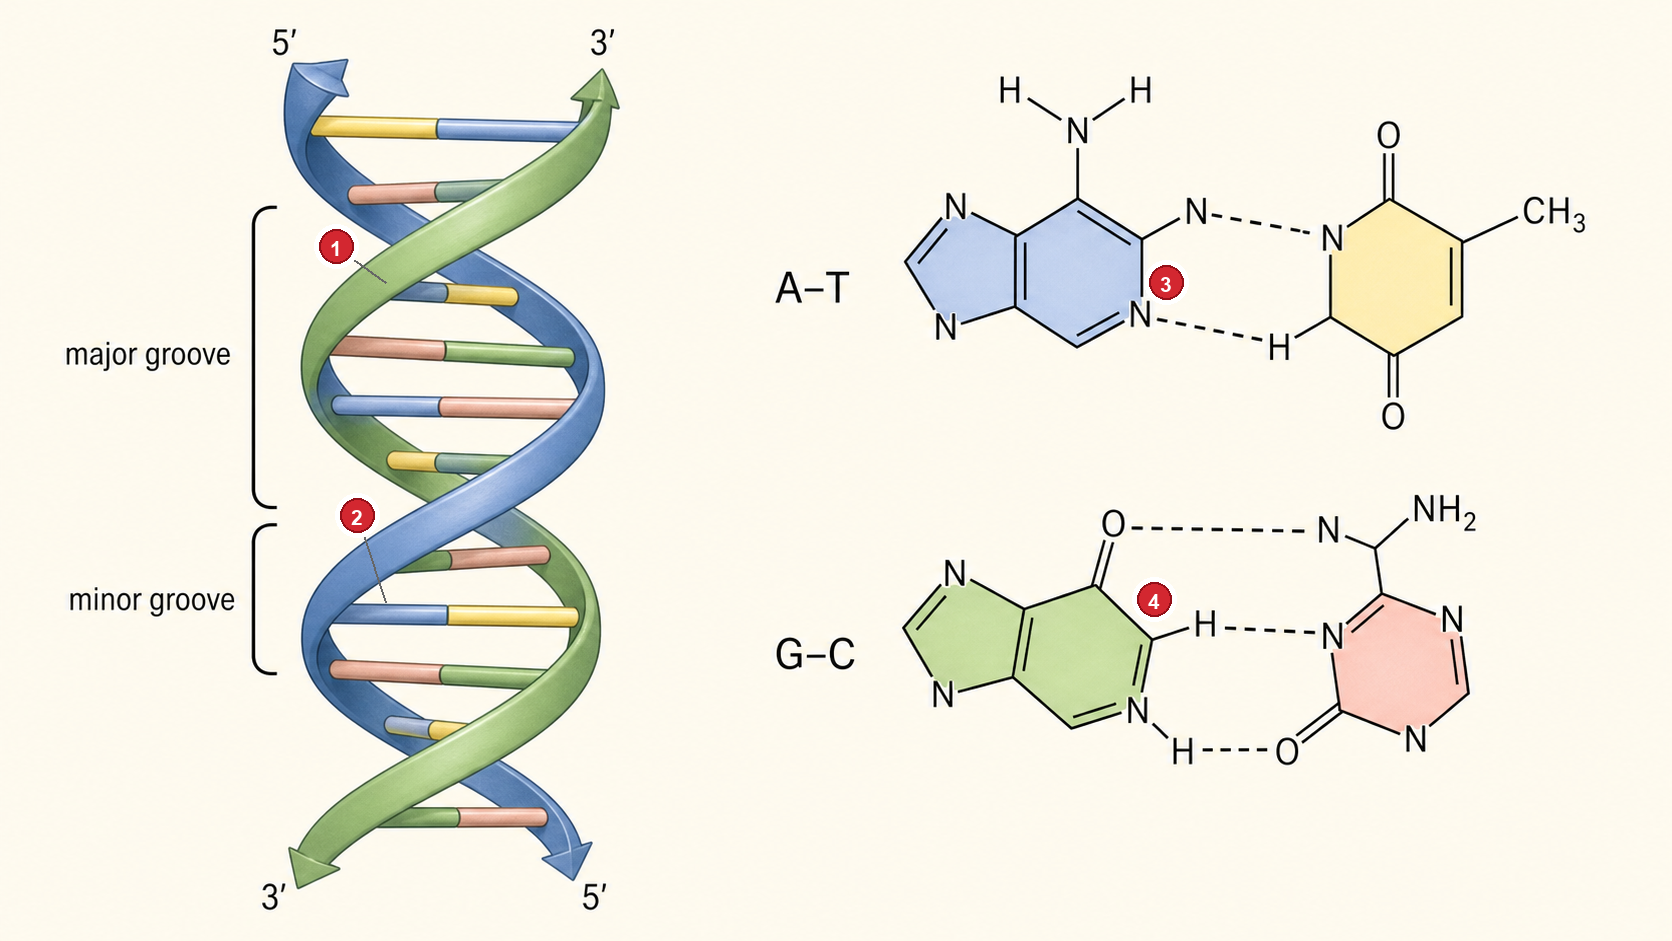
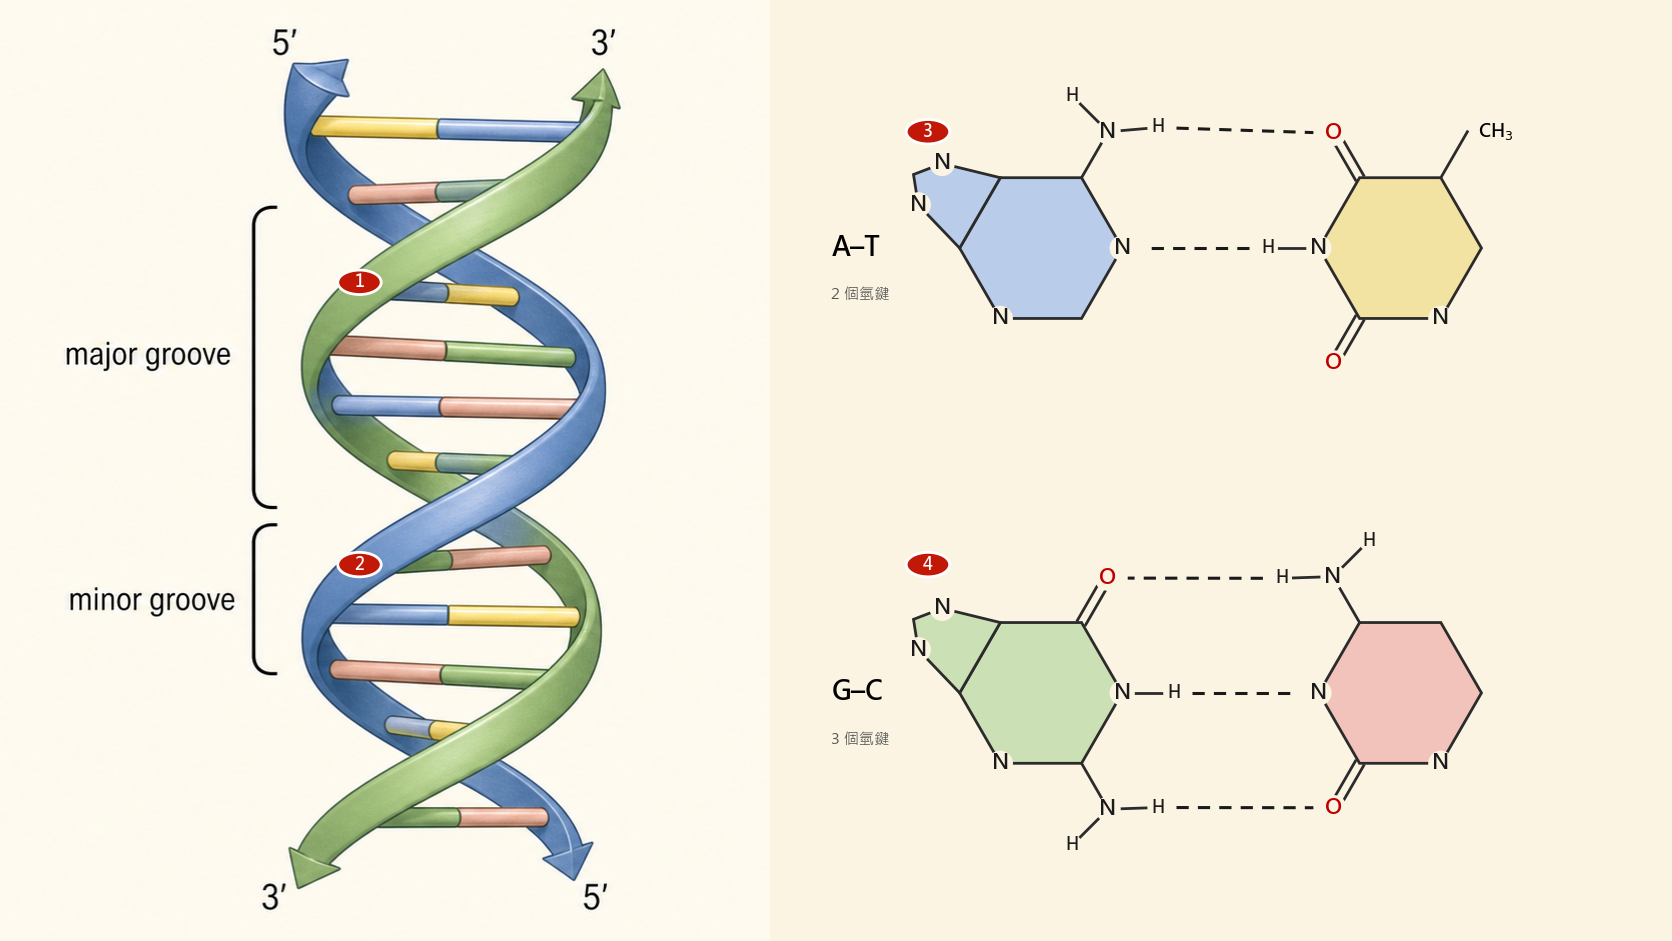
重繪 W11 DNA 鹼基配對圖：修正 A-T 氫鍵化學錯誤
- 原 AI 圖 A-T 上方氫鍵畫成 N…N（未經 H）、羰基 O 未參與
- 左半雙螺旋插畫（反平行/大小溝正確）保留原圖；右半改由
  tools/draw_w11_base_pairs.py 程式繪製，每條氫鍵由
  (供體H, 受體O/N) 座標對產生並斷言 A-T 2 條、G-C 3 條
- 正確配對：A-T＝N6-H…O4、N3-H…N1；G-C＝N4-H…O6、
  N1-H…N3、N2-H…O2
- 標號語意不變（①大溝②小溝③A-T④G-C），題庫 W11-E01 與
  w18 標圖牆解答無需修改
- build_redrawn_assets*.py 停用此圖條目；img 加 ?v=2

diff --git a/site/vi-a2/lessons/w11.html b/site/vi-a2/lessons/w11.html
@@ -29,7 +29,7 @@ const WEEK={
    '<span class=kw>鹼基配對</span>有固定規則。',
    'A配T，有兩個氫鍵。',
    'G配C，有三個氫鍵。'
-  ],img:'../../assets/figures/w11_dna_helix.jpg',imgCap:'DNA雙螺旋構造 ／ Cấu trúc chuỗi xoắn kép DNA'},
+  ],img:'../../assets/figures/w11_dna_helix.jpg?v=2',imgCap:'DNA雙螺旋構造 ／ Cấu trúc chuỗi xoắn kép DNA'},
   {h:'互補股與DNA vs RNA',p:[
    '兩股DNA<span class=kw>反平行</span>。',
    '方向相反，頭尾相對。',

diff --git a/site/vi-a2/w11.html b/site/vi-a2/w11.html
@@ -206,7 +206,7 @@
 <h2>DNA 雙螺旋</h2>
 <p class="vi">Chuỗi xoắn kép</p>
 </div>
-<img class="r-stretch" src="../assets/figures/w11_dna_helix.jpg" alt="DNA雙螺旋構造 / Cấu trúc chuỗi xoắn kép DNA">
+<img class="r-stretch" src="../assets/figures/w11_dna_helix.jpg?v=2" alt="DNA雙螺旋構造 / Cấu trúc chuỗi xoắn kép DNA">
 <p style="color:var(--accent);font-weight:700">A 配 T(2 鍵),G 配 C(3 鍵)。</p>
 <p class="vi">A-T (2 liên kết), G-C (3 liên kết).</p>
 <aside class="notes">

diff --git a/tools/draw_w11_base_pairs.py b/tools/draw_w11_base_pairs.py
@@ -1,0 +1,208 @@
+#!/usr/bin/env python3
+# -*- coding: utf-8 -*-
+"""
+draw_w11_base_pairs.py — 重繪 W11 DNA 圖的右半（A–T / G–C 鹼基配對）。
+
+2026-10-16：原 AI 圖的 A–T 配對化學錯誤——上方氫鍵畫成 N…N（未經 H），
+且羰基 O 未參與。左半的雙螺旋插畫（反平行 5'/3'、大小溝）正確，保留原圖；
+右半改為程式繪製，每條氫鍵由 (供體H, 受體O/N) 座標對產生，結構上不可能畫錯。
+
+正確配對：
+  A–T 2 條：A 的 N6–H … O4=C(T)；T 的 N3–H … N1(A)
+  G–C 3 條：C 的 N4–H … O6=C(G)；G 的 N1–H … N3(C)；G 的 N2–H … O2=C(C)
+
+標號語意沿用（w18 標圖牆與題庫 W11-E01 依賴）：
+  ① 大溝  ② 小溝（左半螺旋）  ③ A–T（2 氫鍵）  ④ G–C（3 氫鍵）
+
+輸出：assets/redrawn/w11_dna_helix_clean.png / _labeled.png (1672x941)
+"""
+import math, os
+import matplotlib
+matplotlib.use("Agg")
+import matplotlib.pyplot as plt
+plt.rcParams["font.sans-serif"] = ["Microsoft JhengHei", "DejaVu Sans"]
+plt.rcParams["axes.unicode_minus"] = False
+from matplotlib.patches import Polygon, Circle
+from PIL import Image
+
+HERE = os.path.dirname(os.path.abspath(__file__))
+BASE = os.path.join(HERE, "..", "assets", "redrawn")
+SRC  = os.path.join(BASE, "_w11_helix_left_backup.png")   # 原圖左半備份（首次執行時建立）
+ORIG = os.path.join(BASE, "w11_dna_helix_clean.png")
+
+BG = "#FBF4E2"
+A_FILL, T_FILL = "#B9CCEA", "#F3E3A2"
+G_FILL, C_FILL = "#CBE0B4", "#F2C3BB"
+EDGE = "#2B2B2B"
+DASH = "#1A1A1A"
+
+def hexagon(center, r, rot=0):
+    return [(center[0] + r*math.cos(math.radians(a + rot)),
+             center[1] + r*math.sin(math.radians(a + rot))) for a in range(0, 360, 60)]
+
+def atom(ax, xy, s, color="#1A1A1A", size=15):
+    ax.text(xy[0], xy[1], s, ha="center", va="center", fontsize=size,
+            fontweight="bold", color=color, zorder=6,
+            bbox=dict(boxstyle="circle,pad=0.08", fc=BG, ec="none"))
+
+def bond(ax, a, b, double=False):
+    if double:
+        dx, dy = b[0]-a[0], b[1]-a[1]
+        n = math.hypot(dx, dy); px, py = -dy/n*0.055, dx/n*0.055
+        ax.plot([a[0]+px, b[0]+px], [a[1]+py, b[1]+py], color=EDGE, lw=2, zorder=3)
+        ax.plot([a[0]-px, b[0]-px], [a[1]-py, b[1]-py], color=EDGE, lw=2, zorder=3)
+    else:
+        ax.plot([a[0], b[0]], [a[1], b[1]], color=EDGE, lw=2, zorder=3)
+
+def out(v_from, v_to, k):
+    """從 v_from 往 v_to 方向延伸 k。"""
+    dx, dy = v_to[0]-v_from[0], v_to[1]-v_from[1]
+    n = math.hypot(dx, dy)
+    return (v_from[0]+dx/n*k, v_from[1]+dy/n*k)
+
+HBONDS = []  # (H_xy, acceptor_xy, acceptor_symbol) — 唯一允許的氫鍵形式
+
+def hbond(ax, H_xy, acc_xy, acc_sym):
+    assert acc_sym in ("O", "N"), f"受體必須是 O 或 N，不是 {acc_sym}"
+    dx, dy = acc_xy[0]-H_xy[0], acc_xy[1]-H_xy[1]
+    n = math.hypot(dx, dy); ux, uy = dx/n, dy/n
+    a = (H_xy[0]+ux*0.22, H_xy[1]+uy*0.22)
+    b = (acc_xy[0]-ux*0.24, acc_xy[1]-uy*0.24)
+    ax.plot([a[0], b[0]], [a[1], b[1]], color=DASH, lw=2.2,
+            linestyle=(0, (4, 3)), zorder=2)
+    HBONDS.append((H_xy, acc_xy, acc_sym))
+
+def purine(ax, c, fill):
+    """腺嘌呤/鳥嘌呤骨架。回傳關鍵頂點：N1(0°) C6(60°) C5(120°) C4(180°) N3(240°) C2(300°) 與五環。"""
+    v = hexagon(c, 0.95)                      # v[0]=0°,v[1]=60°,…
+    N1, C6, C5, C4, N3, C2 = v[0], v[1], v[2], v[3], v[4], v[5]
+    # 五員環（咪唑）掛在 C4–C5 外側（左側）
+    mid = ((C4[0]+C5[0])/2, (C4[1]+C5[1])/2)
+    o = out(c, mid, 1.72)                     # 五環外頂點 C8
+    N7 = out(c, ((C5[0]+o[0])/2, (C5[1]+o[1])/2), 1.52)
+    N9 = out(c, ((C4[0]+o[0])/2, (C4[1]+o[1])/2), 1.52)
+    ax.add_patch(Polygon(v, closed=True, facecolor=fill, edgecolor=EDGE, lw=2, zorder=1))
+    ax.add_patch(Polygon([C5, N7, o, N9, C4], closed=True, facecolor=fill,
+                         edgecolor=EDGE, lw=2, zorder=1))
+    atom(ax, N7, "N"); atom(ax, N9, "N"); atom(ax, N3, "N")
+    return {"N1": N1, "C6": C6, "C2": C2, "c": c}
+
+def pyrimidine(ax, c, fill):
+    """胸腺嘧啶/胞嘧啶骨架。N3(180°) C4(120°) C5(60°) C6(0°) N1(300°) C2(240°)。"""
+    v = hexagon(c, 0.95)
+    C6, C5, C4, N3, C2, N1 = v[0], v[1], v[2], v[3], v[4], v[5]
+    ax.add_patch(Polygon(v, closed=True, facecolor=fill, edgecolor=EDGE, lw=2, zorder=1))
+    atom(ax, N1, "N")
+    return {"N3": N3, "C4": C4, "C2": C2, "C5": C5, "c": c}
+
+def draw_right(ax):
+    ax.set_xlim(0, 10); ax.set_ylim(0, 11)
+    ax.set_aspect("equal"); ax.axis("off"); ax.set_facecolor(BG)
+
+    # ================= A–T（上，2 條氫鍵） =================
+    A = purine(ax, (2.9, 8.1), A_FILL)
+    T = pyrimidine(ax, (7.1, 8.1), T_FILL)
+    ax.text(0.45, 8.1, "A–T", fontsize=19, fontweight="bold", va="center")
+    ax.text(0.45, 7.55, "2 個氫鍵", fontsize=11, va="center", color="#555")
+
+    # A：C6 上的胺基 N6H2（供體）
+    N6 = out(A["C6"], out(A["c"], A["C6"], 2.0), 0.62)
+    bond(ax, A["C6"], N6); atom(ax, N6, "N")
+    H_up  = (N6[0]-0.42, N6[1]+0.42)
+    H_rt  = (N6[0]+0.58, N6[1]+0.05)          # 指向 T 的 O4
+    bond(ax, N6, H_up); atom(ax, H_up, "H", size=12)
+    bond(ax, N6, H_rt); atom(ax, H_rt, "H", size=12)
+    atom(ax, A["N1"], "N")                     # N1 受體
+
+    # T：C4 上的羰基 O4（受體，朝左上）、N3–H（供體，朝左）、C5 上的 CH3
+    O4 = out(T["C4"], out(T["c"], T["C4"], 2.0), 0.60)
+    bond(ax, T["C4"], O4, double=True); atom(ax, O4, "O", color="#C00000")
+    atom(ax, T["N3"], "N")
+    H3 = (T["N3"][0]-0.60, T["N3"][1])
+    bond(ax, T["N3"], H3); atom(ax, H3, "H", size=12)
+    O2t = out(T["C2"], out(T["c"], T["C2"], 2.0), 0.60)
+    bond(ax, T["C2"], O2t, double=True); atom(ax, O2t, "O", color="#C00000")
+    CH3 = out(T["C5"], out(T["c"], T["C5"], 2.0), 0.62)
+    bond(ax, T["C5"], CH3)
+    ax.text(CH3[0]+0.12, CH3[1], "CH$_3$", fontsize=13, fontweight="bold",
+            va="center", ha="left", zorder=6,
+            bbox=dict(boxstyle="round,pad=0.1", fc=BG, ec="none"))
+
+    hbond(ax, H_rt, O4, "O")                   # N6–H … O4
+    hbond(ax, H3, A["N1"], "N")                # N3–H … N1
+
+    # ================= G–C（下，3 條氫鍵） =================
+    G = purine(ax, (2.9, 2.9), G_FILL)
+    C = pyrimidine(ax, (7.1, 2.9), C_FILL)
+    ax.text(0.45, 2.9, "G–C", fontsize=19, fontweight="bold", va="center")
+    ax.text(0.45, 2.35, "3 個氫鍵", fontsize=11, va="center", color="#555")
+
+    # G：C6 上羰基 O6（受體）、N1–H（供體）、C2 上胺基 N2H2（供體）
+    O6 = out(G["C6"], out(G["c"], G["C6"], 2.0), 0.60)
+    bond(ax, G["C6"], O6, double=True); atom(ax, O6, "O", color="#C00000")
+    atom(ax, G["N1"], "N")
+    H1 = (G["N1"][0]+0.60, G["N1"][1])
+    bond(ax, G["N1"], H1); atom(ax, H1, "H", size=12)
+    N2 = out(G["C2"], out(G["c"], G["C2"], 2.0), 0.62)
+    bond(ax, G["C2"], N2); atom(ax, N2, "N")
+    H2a = (N2[0]-0.42, N2[1]-0.42)
+    H2b = (N2[0]+0.58, N2[1]+0.02)             # 指向 C 的 O2
+    bond(ax, N2, H2a); atom(ax, H2a, "H", size=12)
+    bond(ax, N2, H2b); atom(ax, H2b, "H", size=12)
+
+    # C：C4 上胺基 N4H2（供體）、N3（受體）、C2 上羰基 O2（受體）
+    N4 = out(C["C4"], out(C["c"], C["C4"], 2.0), 0.62)
+    bond(ax, C["C4"], N4); atom(ax, N4, "N")
+    H4a = (N4[0]+0.42, N4[1]+0.42)
+    H4b = (N4[0]-0.60, N4[1]-0.02)             # 指向 G 的 O6
+    bond(ax, N4, H4a); atom(ax, H4a, "H", size=12)
+    bond(ax, N4, H4b); atom(ax, H4b, "H", size=12)
+    atom(ax, C["N3"], "N")
+    O2c = out(C["C2"], out(C["c"], C["C2"], 2.0), 0.60)
+    bond(ax, C["C2"], O2c, double=True); atom(ax, O2c, "O", color="#C00000")
+
+    hbond(ax, H4b, O6, "O")                    # N4–H … O6
+    hbond(ax, H1, C["N3"], "N")                # N1–H … N3
+    hbond(ax, H2b, O2c, "O")                   # N2–H … O2
+
+def badge(fig, fx, fy, num):
+    fig.add_artist(Circle((fx, fy), 0.013, transform=fig.transFigure,
+                          facecolor="#C21807", edgecolor="white", lw=2, zorder=20))
+    fig.text(fx, fy, str(num), ha="center", va="center", fontsize=12,
+             fontweight="bold", color="white", zorder=21)
+
+def main():
+    # 首次執行：把原圖左半（螺旋插畫）裁下備份；之後重跑直接用備份，避免套娃
+    if not os.path.exists(SRC):
+        im = Image.open(ORIG)
+        w, h = im.size
+        im.crop((0, 0, int(w*0.46), h)).save(SRC)
+        print("helix left-half backup ->", SRC)
+    helix = Image.open(SRC)
+
+    for labeled, name in [(False, "w11_dna_helix_clean.png"),
+                          (True,  "w11_dna_helix_labeled.png")]:
+        HBONDS.clear()
+        fig = plt.figure(figsize=(16.72, 9.41), dpi=100)
+        fig.patch.set_facecolor(BG)
+        axL = fig.add_axes([0.0, 0.0, 0.46, 1.0]); axL.axis("off")
+        axL.imshow(helix); axL.set_facecolor(BG)
+        axR = fig.add_axes([0.46, 0.0, 0.54, 1.0])
+        draw_right(axR)
+
+        # 結構性檢查：A–T 2 條 + G–C 3 條，受體只能是 O 或 N
+        assert len(HBONDS) == 5, f"氫鍵數不對：{len(HBONDS)}"
+        assert [h[2] for h in HBONDS] == ["O", "N", "O", "N", "O"]
+
+        if labeled:
+            badge(fig, 0.215, 0.70, 1)   # 大溝（螺旋上段）
+            badge(fig, 0.215, 0.40, 2)   # 小溝（螺旋下段）
+            badge(fig, 0.555, 0.86, 3)   # A–T
+            badge(fig, 0.555, 0.40, 4)   # G–C
+        p = os.path.join(BASE, name)
+        fig.savefig(p, facecolor=BG)
+        plt.close(fig)
+        print("wrote", p)
+
+if __name__ == "__main__":
+    main()

diff --git a/tools/build_redrawn_assets.py b/tools/build_redrawn_assets.py
@@ -32,7 +32,9 @@ ITEMS = [
  ("w10_membrane", "exec-a3c526fb-e2aa-416e-9d46-6197e19f48ab.png", True, [(0.18,.48),(0.50,.48),(0.77,.48)], "Phospholipids and cholesterol repeat across the bilayer."),
  ("w10_transport", "exec-ba044c50-248c-4726-bcac-cf3f2568be1d.png", True, [(0.17,.50),(0.50,.50),(0.83,.50)], "Three separate membrane transport mechanisms."),
  ("w11_nucleotide", "exec-7cac714e-4986-4f61-b777-74370b59b941.png", True, [(0.14,.42),(0.39,.55),(0.55,.26),(0.82,.45)], "The same nucleoside motif appears with and without phosphate."),
- ("w11_dna_helix", "exec-947ca1e2-3532-407c-91df-9d73bb6cdc3f.png", True, [(0.23,.30),(0.23,.64),(0.68,.31),(0.69,.67)], "Base-pair hydrogen bonds repeat along the double helix."),
+ # 2026-10-16 移除:原 AI 圖 A-T 配對氫鍵畫錯(N...N 未經 H)。此圖改由
+ # tools/draw_w11_base_pairs.py 程式繪製,重跑本腳本不可再覆蓋它。
+ # ("w11_dna_helix", "exec-947ca1e2-3532-407c-91df-9d73bb6cdc3f.png", True, [(0.23,.30),(0.23,.64),(0.68,.31),(0.69,.67)], "Base-pair hydrogen bonds repeat along the double helix."),
  ("w12_deltaG", "exec-204e79b5-4166-4c0a-bb69-0b7711a85769.png", True, [(0.17,.45),(0.47,.45),(0.78,.20),(0.73,.66)], "Two reaction-coordinate plots share the same axes."),
  ("w12_atp_cycle", "exec-17af2da5-7e50-4de5-8fbc-6501bfdacfd8.png", False, [(0.48,.28),(0.48,.72),(0.15,.48),(0.82,.48)], "ATP/ADP cycle connects three forms of cellular work."),
  ("w13_glycolysis", "exec-64981498-bd88-41c0-8a72-017cdb42f9b0.png", False, [(0.39,.16),(0.39,.47),(0.39,.86),(0.82,.51)], "Intermediates after cleavage represent two molecules each."),

diff --git a/tools/build_redrawn_assets_v2.py b/tools/build_redrawn_assets_v2.py
@@ -54,7 +54,9 @@ ITEMS = [
  ("w10_membrane", "exec-a3c526fb-e2aa-416e-9d46-6197e19f48ab.png", True, [(0.18,.48),(0.50,.48),(0.77,.48)], "Phospholipids and cholesterol repeat across the bilayer."),
  ("w10_transport", "exec-ba044c50-248c-4726-bcac-cf3f2568be1d.png", True, [(0.17,.50),(0.50,.50),(0.83,.50)], "Three separate membrane transport mechanisms."),
  ("w11_nucleotide", "exec-7cac714e-4986-4f61-b777-74370b59b941.png", True, [(0.14,.42),(0.39,.55),(0.55,.26),(0.82,.45)], "The same nucleoside motif appears with and without phosphate."),
- ("w11_dna_helix", "exec-947ca1e2-3532-407c-91df-9d73bb6cdc3f.png", True, [(0.23,.30),(0.23,.64),(0.68,.31),(0.69,.67)], "Base-pair hydrogen bonds repeat along the double helix."),
+ # 2026-10-16 移除:原 AI 圖 A-T 配對氫鍵畫錯(N...N 未經 H)。此圖改由
+ # tools/draw_w11_base_pairs.py 程式繪製,重跑本腳本不可再覆蓋它。
+ # ("w11_dna_helix", "exec-947ca1e2-3532-407c-91df-9d73bb6cdc3f.png", True, [(0.23,.30),(0.23,.64),(0.68,.31),(0.69,.67)], "Base-pair hydrogen bonds repeat along the double helix."),
  ("w12_deltaG", "exec-204e79b5-4166-4c0a-bb69-0b7711a85769.png", True, [(0.17,.45),(0.47,.45),(0.78,.20),(0.73,.66)], "Two reaction-coordinate plots share the same axes."),
  ("w12_atp_cycle", "exec-17af2da5-7e50-4de5-8fbc-6501bfdacfd8.png", True, [(0.48,.28),(0.48,.72),(0.15,.48),(0.82,.48)], "ATP/ADP cycle connects three forms of cellular work."),
  ("w13_glycolysis", "exec-64981498-bd88-41c0-8a72-017cdb42f9b0.png", True, [(0.39,.16),(0.39,.47),(0.39,.86),(0.82,.51)], "Intermediates after cleavage represent two molecules each."),
